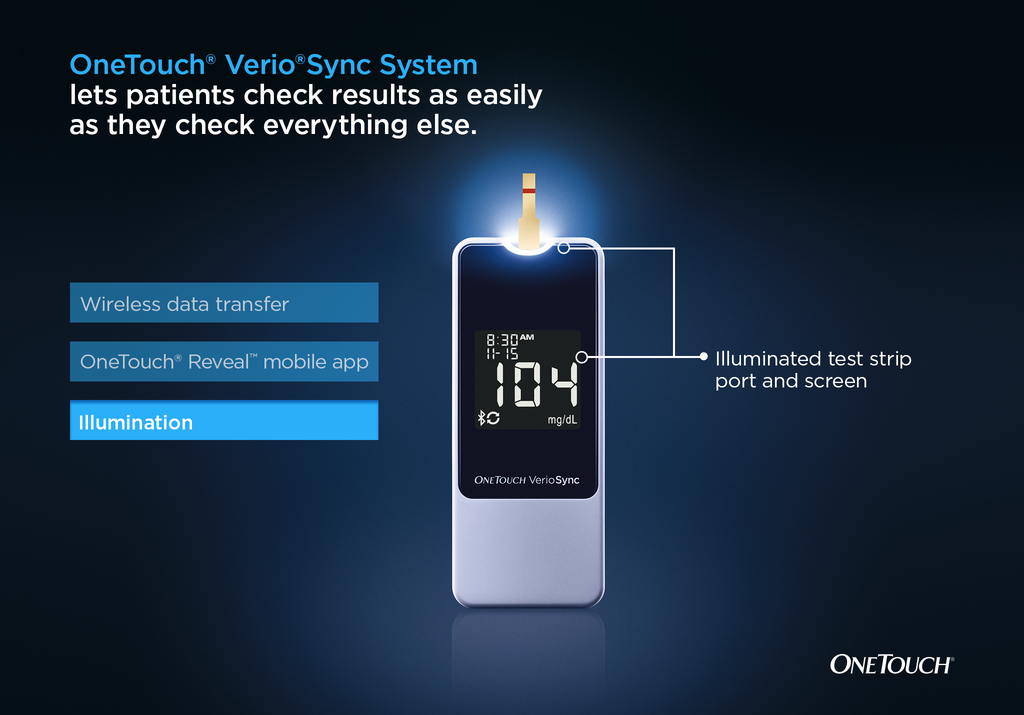
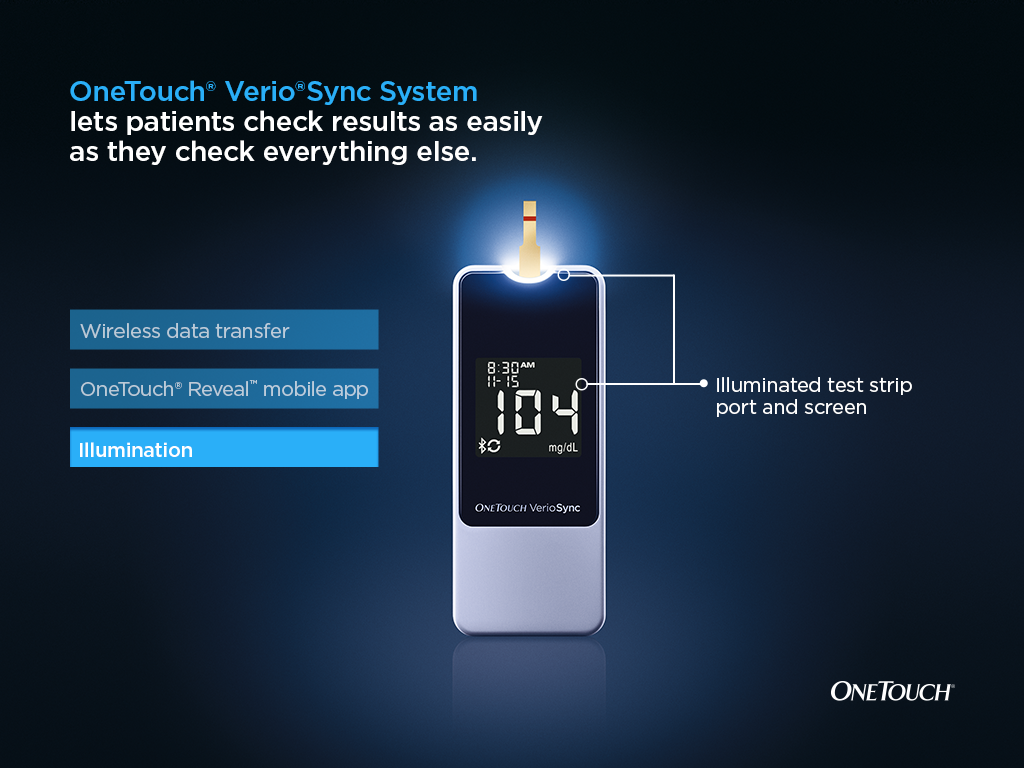
fixes

diff --git a/salesaid/verioplatform_veriosync/slide-3.0.html b/salesaid/verioplatform_veriosync/slide-3.0.html
@@ -46,8 +46,8 @@
 
 	<div id="phone_3"><img src="res/images/3.0/phone_3.png" usemap="#Map2" />
 		<map name="Map2">
-			<area shape="rect" coords="69,281,379,322" href="javascript:showMenu(1)">
-			<area shape="rect" coords="69,340,378,382" href="javascript:showMenu(2)">
+			<area shape="rect" coords="70,309,380,350" href="javascript:showMenu(1)">
+			<area shape="rect" coords="70,367,379,409" href="javascript:showMenu(2)">
 		</map>
 	</div>
 

diff --git a/salesaid/verioplatform_verioiq/res/css/2.3.css b/salesaid/verioplatform_verioiq/res/css/2.3.css
@@ -52,7 +52,7 @@ body {
 #footnote
 {
     position:absolute;
-    bottom: 35px;
-    right: -40px;
+    bottom: 130px;
+    right: 30px;
     display:none;
 }	

diff --git a/salesaid/verioplatform_veriosync/res/css/3.0.css b/salesaid/verioplatform_veriosync/res/css/3.0.css
@@ -27,7 +27,7 @@
 
 #phone_3 {
 	position:absolute;
-	top:27px;
+	top:0;
 	left:0;
 	display:none;
 	z-index:1000;
